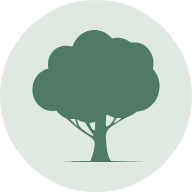
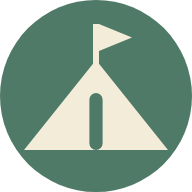
Ikon Markasku baru: tenda berbendera, hijau induk dengan tinta krem; Android versi 1.2 (kode 3)

diff --git a/index.html b/index.html
@@ -7,8 +7,8 @@
 <meta name="mobile-web-app-capable" content="yes">
 <meta name="apple-mobile-web-app-capable" content="yes">
 <link rel="manifest" href="manifest.webmanifest">
-<link rel="icon" href="ikon-192.png?v=6" type="image/png">
-<link rel="apple-touch-icon" href="ikon-180.png?v=6">
+<link rel="icon" href="ikon-192.png?v=7" type="image/png">
+<link rel="apple-touch-icon" href="ikon-180.png?v=7">
 <title>Markasku</title>
 <link rel="preconnect" href="https://fonts.googleapis.com">
 <link rel="stylesheet" href="https://fonts.googleapis.com/css2?family=Instrument+Serif:ital@0;1&family=Manrope:wght@400;500;600;700;800&family=JetBrains+Mono:wght@400;500;600&display=swap">

diff --git a/privasi.html b/privasi.html
@@ -4,7 +4,7 @@
 <meta charset="utf-8">
 <meta name="viewport" content="width=device-width, initial-scale=1">
 <title>Kebijakan Privasi Markasku</title>
-<link rel="icon" href="ikon-192.png?v=6" type="image/png">
+<link rel="icon" href="ikon-192.png?v=7" type="image/png">
 <style>
   :root { --tinta: #2a2118; --redup: #6b5f52; --latar: #f7f2ea; --garis: #e4dccf; --aksen: #b8742a; }
   body { margin: 0; background: var(--latar); color: var(--tinta); font: 16px/1.65 Georgia, "Times New Roman", serif; }

diff --git a/hapus-akun.html b/hapus-akun.html
@@ -4,7 +4,7 @@
 <meta charset="utf-8">
 <meta name="viewport" content="width=device-width, initial-scale=1">
 <title>Hapus Akun Markasku</title>
-<link rel="icon" href="ikon-192.png?v=6" type="image/png">
+<link rel="icon" href="ikon-192.png?v=7" type="image/png">
 <style>
   :root { --tinta: #2a2118; --redup: #6b5f52; --latar: #f7f2ea; --garis: #e4dccf; --aksen: #b8742a; }
   body { margin: 0; background: var(--latar); color: var(--tinta); font: 16px/1.65 Georgia, "Times New Roman", serif; }

diff --git a/sw.js b/sw.js
@@ -1,6 +1,6 @@
 // Service worker Markasku: ambil dari jaringan dulu, salinan terakhir dipakai kalau offline (data tetap dari Supabase).
 // Juga menerima Web Push (notifikasi adzan dari Edge Function adzan-push) dan membuka Markasku saat notifikasi diketuk.
-const CACHE = 'markas-v15';
+const CACHE = 'markas-v16';
 self.addEventListener('install', () => self.skipWaiting());
 self.addEventListener('activate', e => e.waitUntil(clients.claim()));
 self.addEventListener('fetch', e => {
